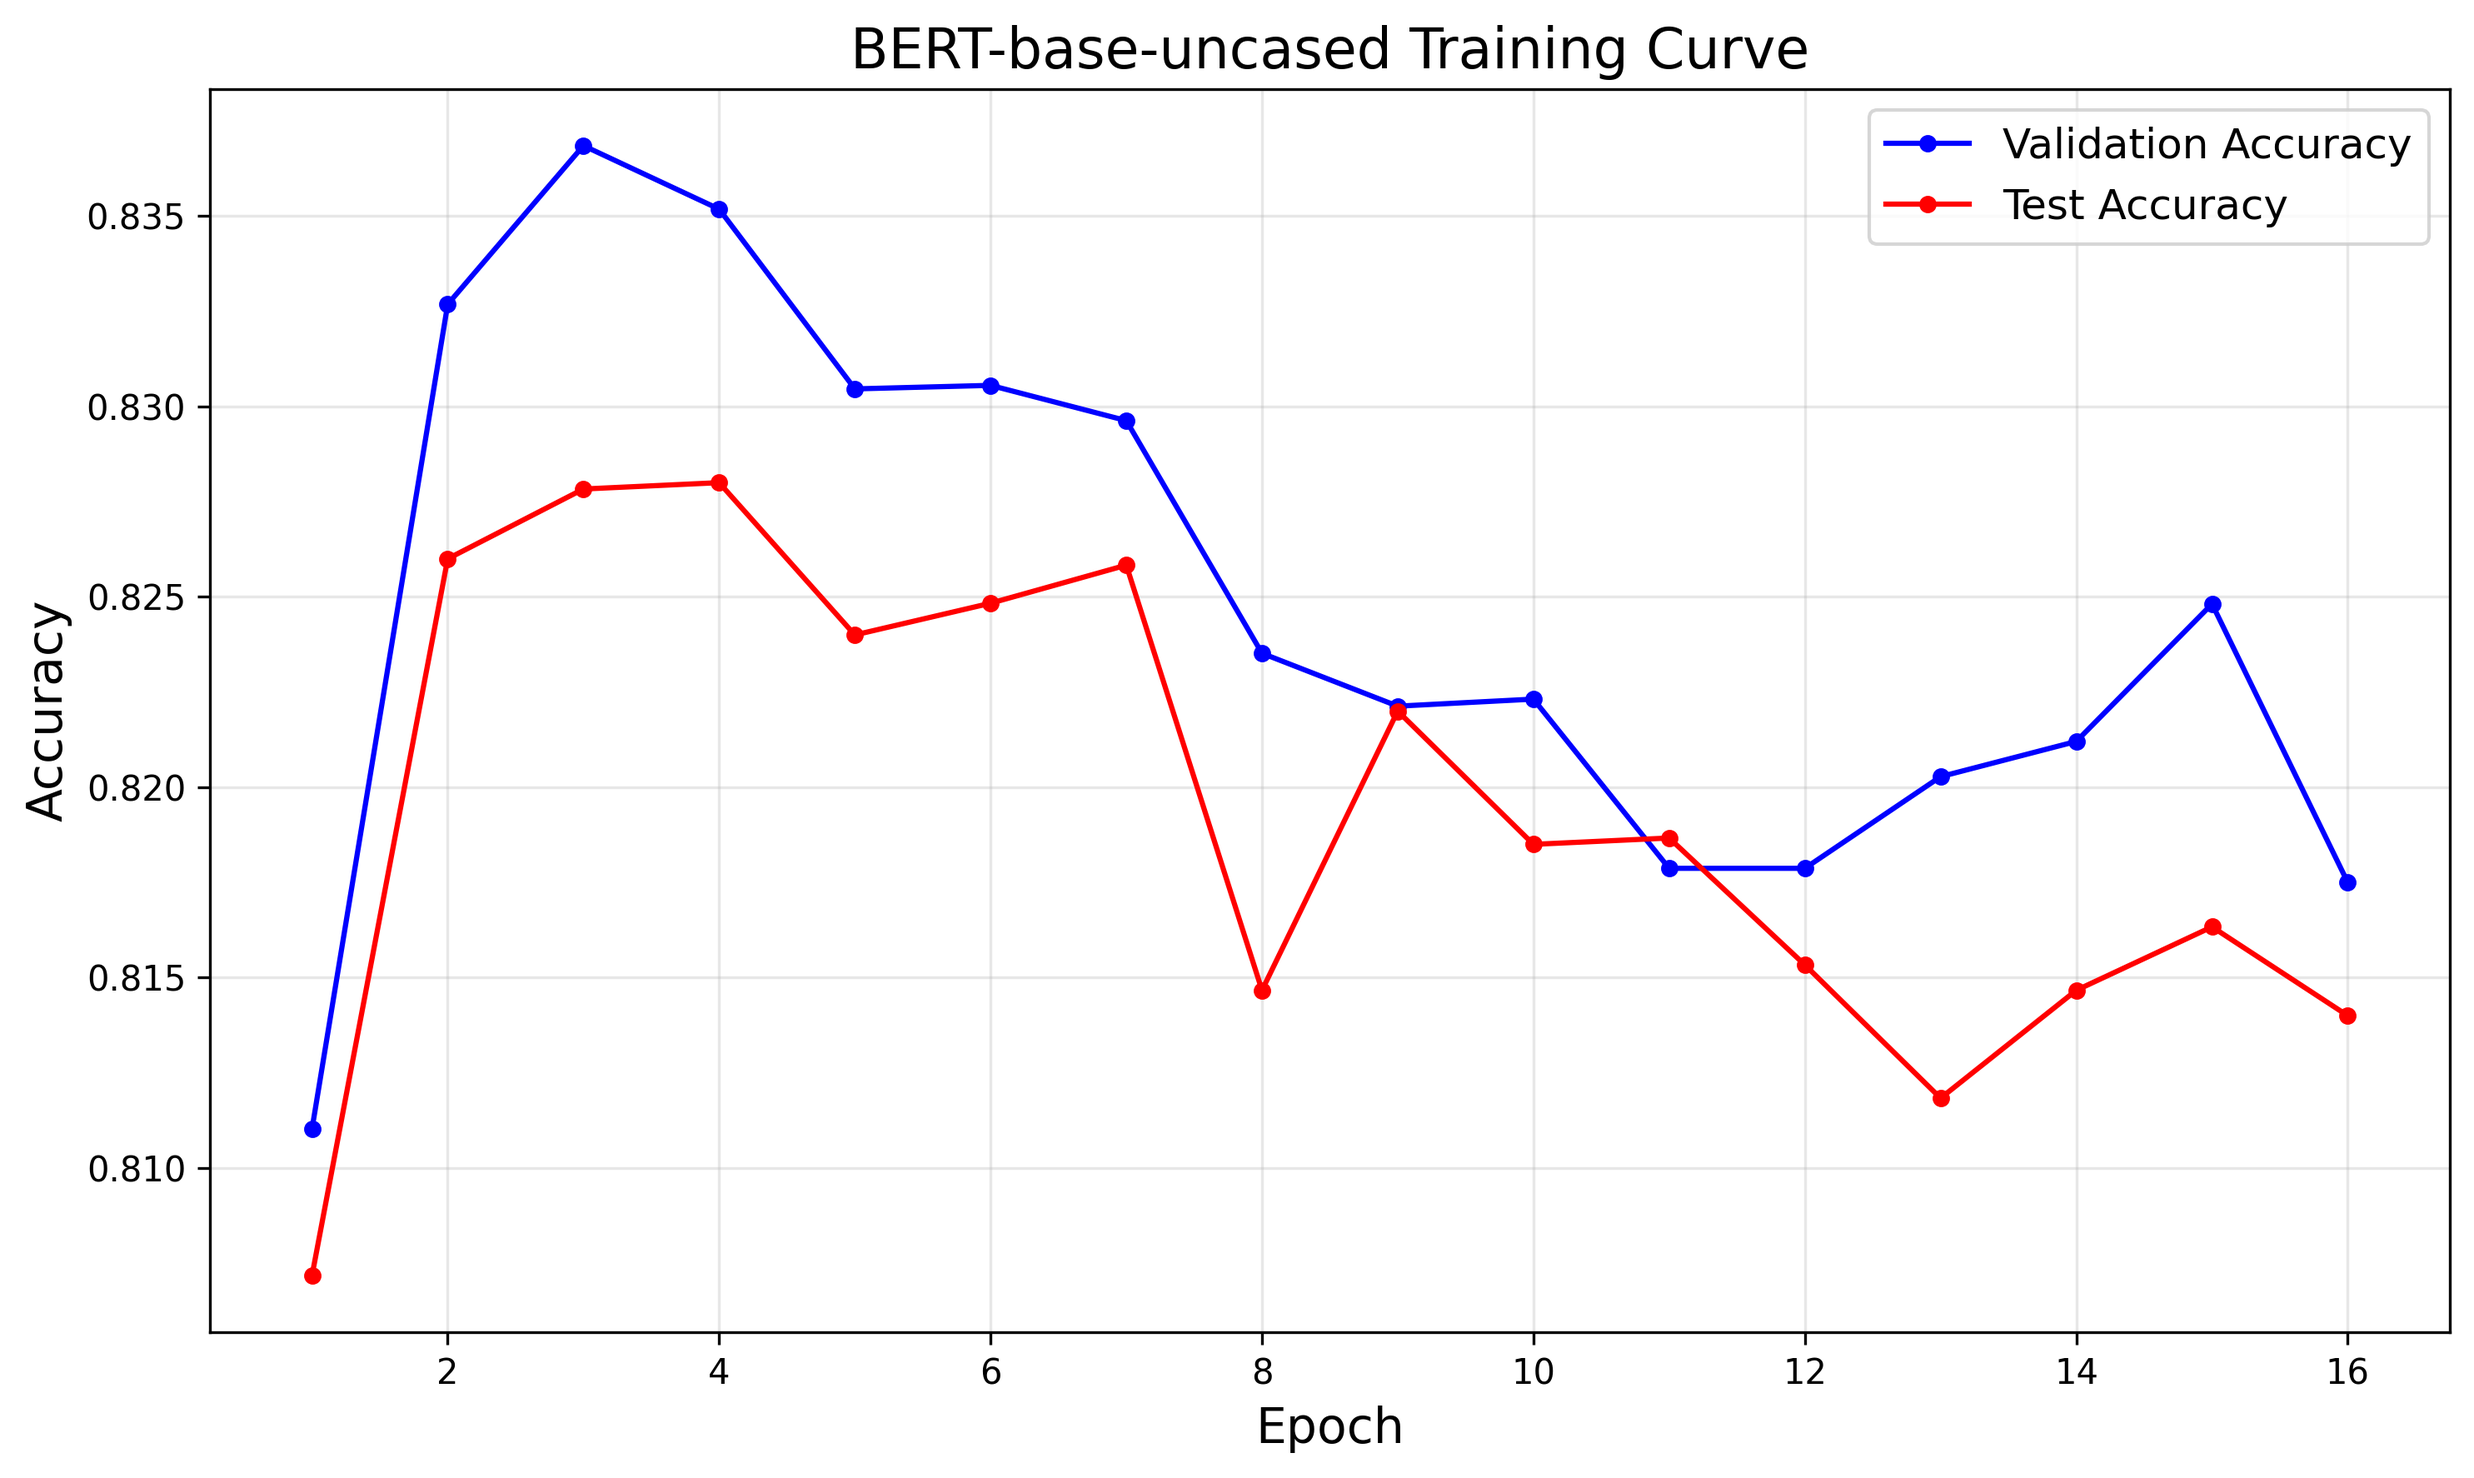
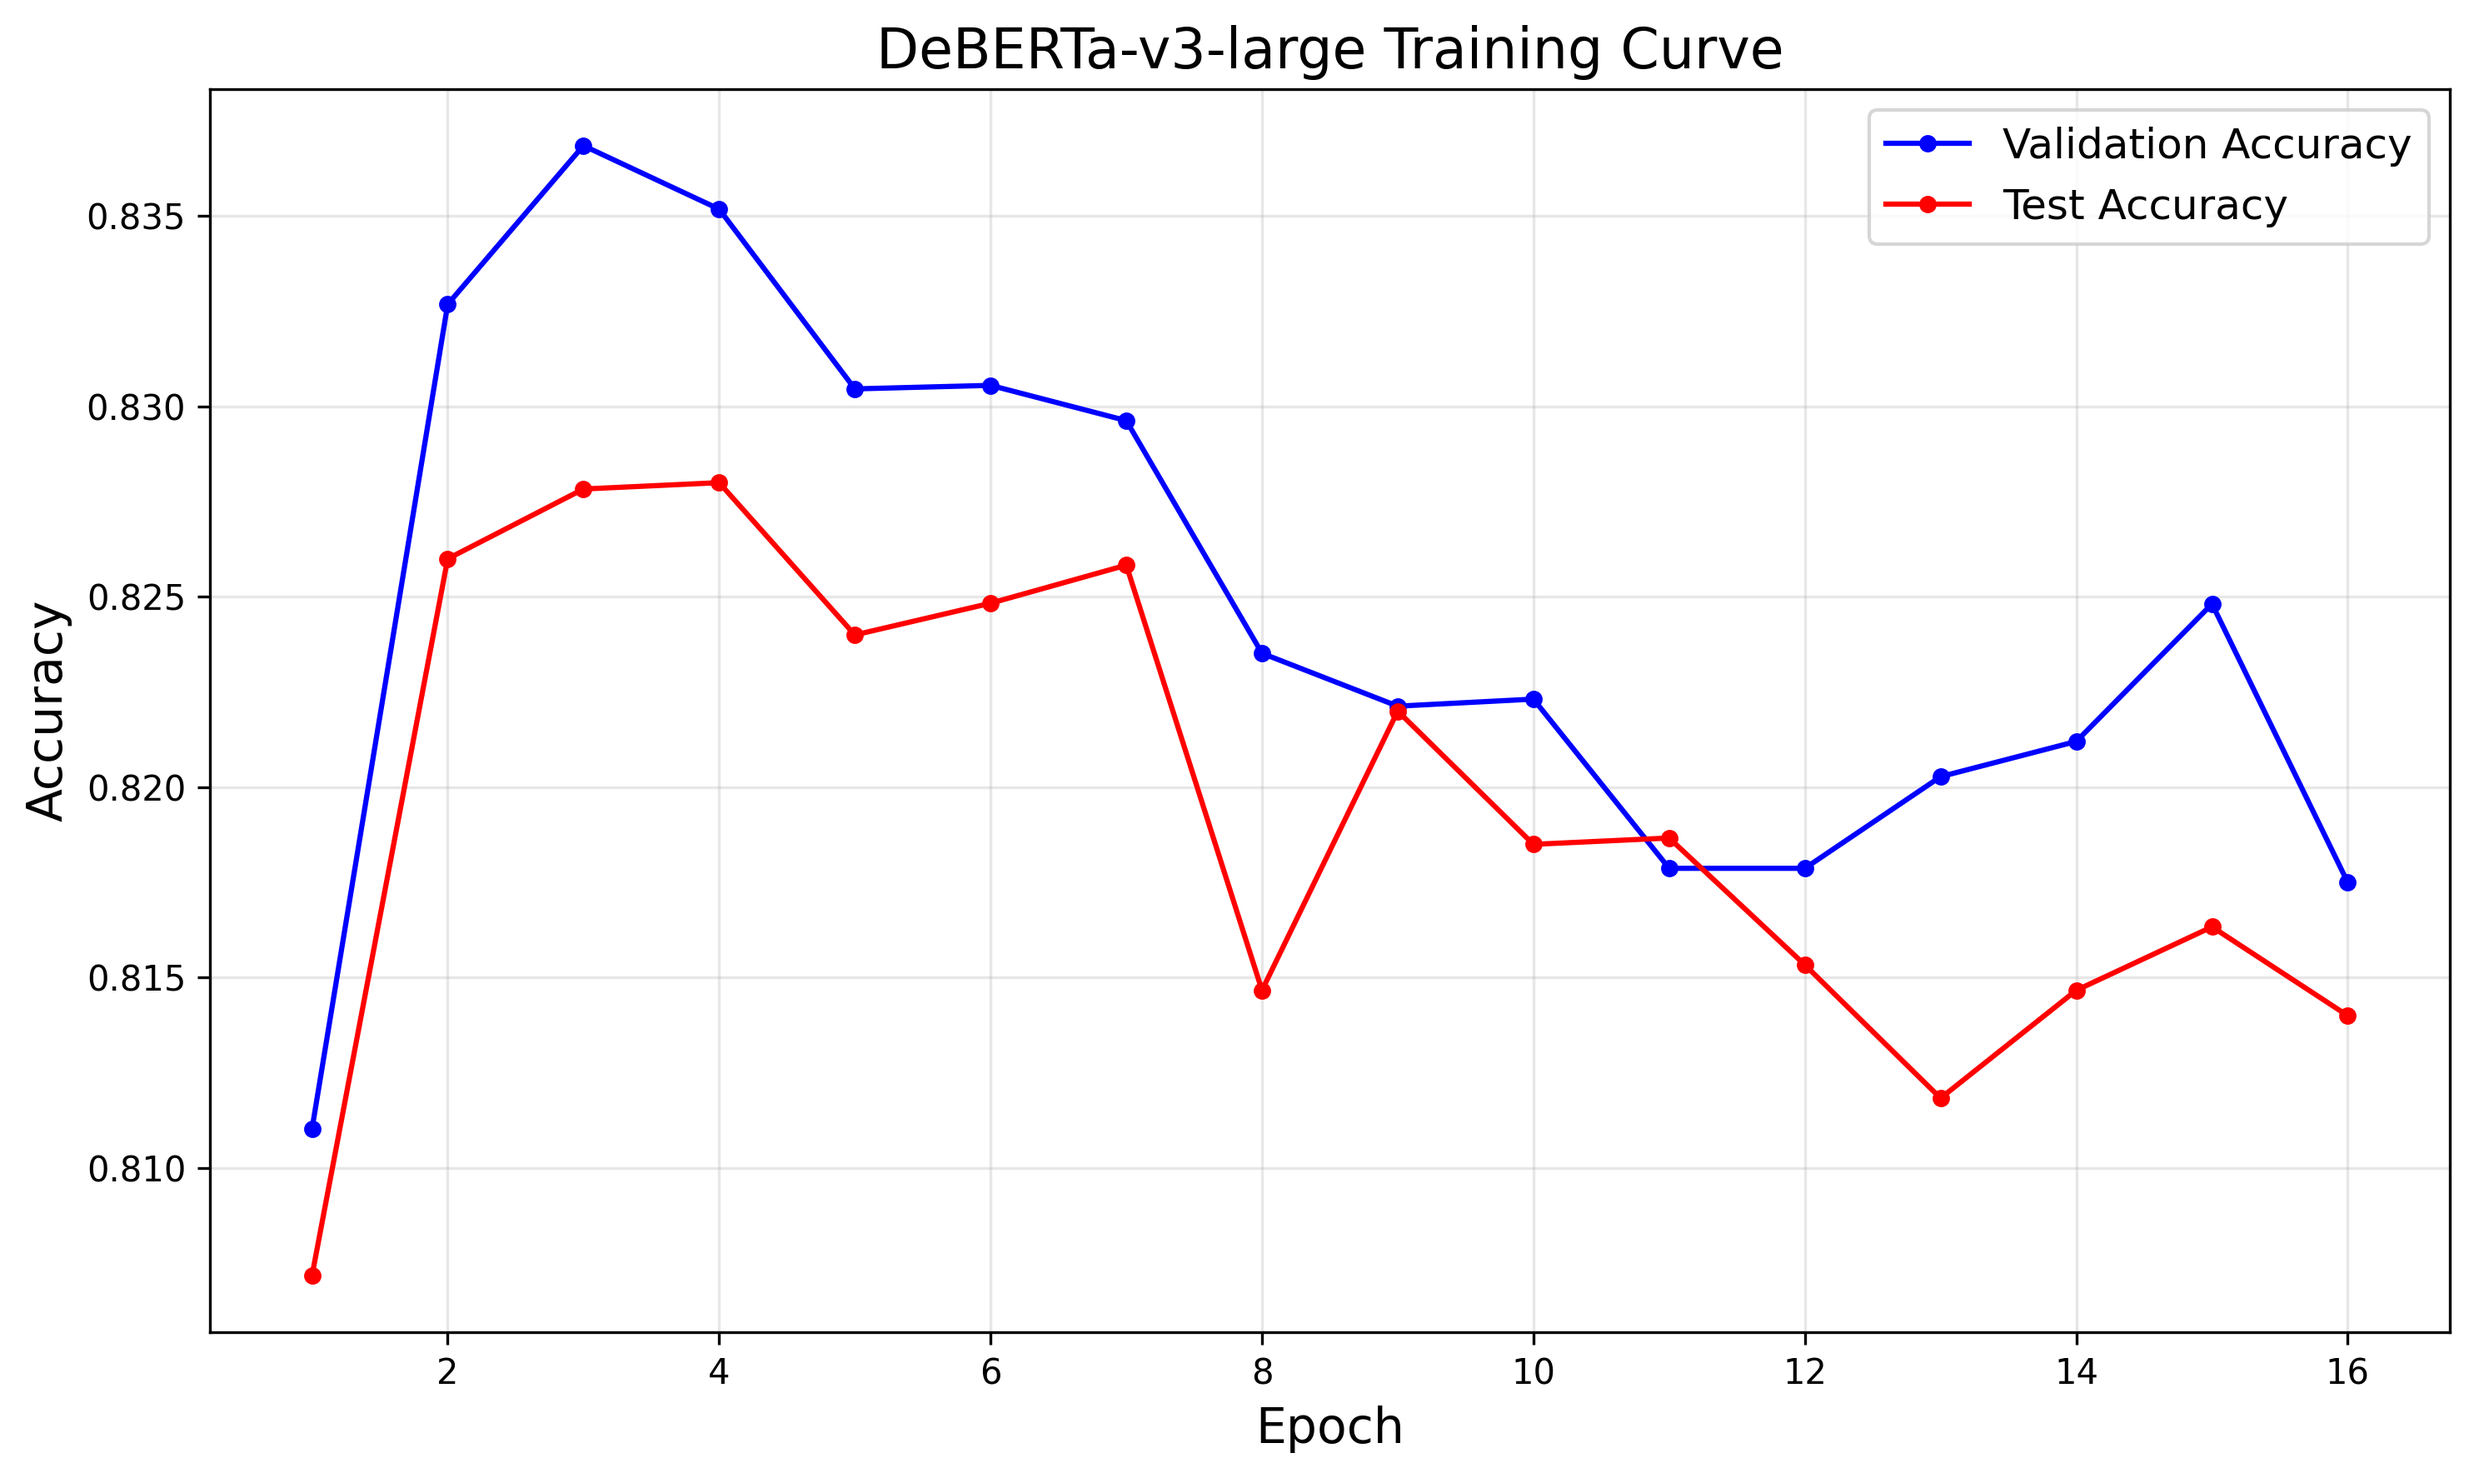
training of 11/26 and updata gitignore

Changed region(s): [[0.3407, 0.0, 0.7434, 0.062]]

diff --git a/hw3/nlp.py b/hw3/nlp.py
@@ -140,53 +140,6 @@ class SentimentClassifier(transformers.PreTrainedModel):
         instance.model = transformers.AutoModelForSequenceClassification.from_pretrained(pretrained_model_name_or_path, *model_args, **kwargs)
         return instance
 
-    """
-    def __init__(self, config: SentimentConfig):
-        super().__init__(config)
-        self.bert = transformers.AutoModel.from_pretrained(config.model_name)
-        self.dropout = torch.nn.Dropout(config.hidden_dropout_prob)
-        if config.head == "base":
-            self.classifier = torch.nn.Linear(config.hidden_size, config.num_labels)
-        elif config.head == "large":
-            self.classifier = BertLargeMLP(config)
-        
-        #initialize weights
-        self.post_init()
-
-    def forward(
-            self,
-            input_ids=None,
-            attention_mask=None,
-            token_type_ids=None,
-            labels=None,
-            **kwargs
-    ):
-        # allowed_kwargs = ["output_attentions", "output_hidden_states", "return_dict", "head_mask", "inputs_embeds"]
-        # bert_kwargs = {k: v for k, v in kwargs.items() if k in allowed_kwargs}
-        kwargs.pop("num_items_in_batch", None)  # sol.1 remove unexpected kwarg
-        outputs = self.bert(
-            input_ids=input_ids,
-            attention_mask=attention_mask,
-            token_type_ids=token_type_ids,
-            **{k: v for k, v in kwargs.items() if k in ["output_attentions", "output_hidden_states"]}
-        )
-        pooled_output = outputs[1]
-        pooled_output = self.dropout(pooled_output)
-        logits = self.classifier(pooled_output)
-
-        loss = None
-        if labels is not None:
-            loss_function = torch.nn.CrossEntropyLoss()
-            loss = loss_function(logits.view(-1, self.config.num_labels), labels.view(-1))
-
-        return transformers.modeling_outputs.SequenceClassifierOutput(
-            loss=loss,
-            logits=logits,
-            hidden_states=outputs.hidden_states,
-            attentions=outputs.attentions
-        )
-        """
-
 console = rich.console.Console()
 class RichProgressCallback(transformers.TrainerCallback):
     def __init__(self, current_epoch: int, total_epochs: int):
@@ -293,12 +246,28 @@ def train(
         epochs: int = 1,
         seed: int = 42,
 ):
-    tokenizer = transformers.AutoTokenizer.from_pretrained(model_name, use_fast=False)
+    tokenizer = transformers.AutoTokenizer.from_pretrained(model_name, use_fast=False, normalization=True)
+    tokenizer.model_max_length = 128
     test_datafile = pandas.read_csv(test_csv)
     true_labels = test_datafile["label"].values
     test_dataset = datasets.Dataset.from_pandas(test_datafile)
+
+    def safe_tokenize(x):
+        batch = tokenizer(
+            x["text"],
+            truncation=True,
+            padding=False,
+            add_special_tokens=True
+        )
+        batch["input_ids"] = [
+            [tid if 0 <= tid < len(tokenizer) else tokenizer.unk_token_id for tid in seq] for seq in batch["input_ids"]
+        ]
+        batch["labels"] = x["label"]
+        return batch
+
     tokenized_test = test_dataset.map(
-        lambda x: tokenizer(x["text"], truncation=True, padding=True, max_length=128),
+        # lambda x: tokenizer(x["text"], truncation=True, padding=True, max_length=max_length),
+        safe_tokenize,
         batched=True,
         remove_columns=["text", "id"]
     )
@@ -306,21 +275,12 @@ def train(
     console.print(f"[bold #de78ba]Using device: {DEVICE}\nUsing model: {model_name}[/bold #de78ba]")
     config = SentimentConfig(model_name=model_name, head=head)
     model = SentimentClassifier(config).to(DEVICE) # type: ignore
-    # model = transformers.AutoModelForSequenceClassification.from_pretrained(
-    #     model_name,
-    #     num_labels=3,
-    #     problem_type="single_label_classification",
-    #     torch_dtype=torch.float32,
-    #     device_map="auto"
-    # ).to(DEVICE) # type: ignore
 
     best_value = -1.0
     best_epoch = int(-1)
     checkpoint_dir = os.path.join(out_dir, "checkpoint")
     os.makedirs(checkpoint_dir, exist_ok=True)
     tokenizer.save_pretrained(checkpoint_dir)
-
-    # print("Initialize successful")
 
     class SentimentTrainer(transformers.Trainer):
         def __init__(self, *args, **kwargs):
@@ -331,12 +291,6 @@ def train(
             else: 
                 kwargs["callbacks"] = []
             super().__init__(*args, **kwargs)
-            
-        # def compute_loss(self, model, inputs, return_outputs=False, num_items_in_batch=None):
-        #     labels = inputs.pop("labels")
-        #     outputs = model(**inputs)
-        #     loss = torch.nn.CrossEntropyLoss()(outputs.logits, labels) if labels is not None else None
-        #     return (loss, outputs) if return_outputs else loss
         
         def log(self, logs, start_time: typing.Optional[float] = None): # type: ignore
             if self.state.epoch is not None:
@@ -368,8 +322,8 @@ def train(
         valid_labels = valid_set["label"].to_numpy()
         train_dataset = datasets.Dataset.from_pandas(train_set)
         valid_dataset = datasets.Dataset.from_pandas(valid_set)
-        tokenized_train = train_dataset.map(lambda x: {**tokenizer(x["text"], truncation=True, padding=True, max_length=128), "labels": x["label"]}, batched=True, remove_columns=train_dataset.column_names)
-        tokenized_valid = valid_dataset.map(lambda x: {**tokenizer(x["text"], truncation=True, padding=True, max_length=128), "labels": x["label"]}, batched=True, remove_columns=valid_dataset.column_names)
+        tokenized_train = train_dataset.map(safe_tokenize, batched=True, remove_columns=train_dataset.column_names)
+        tokenized_valid = valid_dataset.map(safe_tokenize, batched=True, remove_columns=valid_dataset.column_names)
 
         training_arguments = transformers.TrainingArguments(
             output_dir=out_dir,

diff --git a/hw3/graph.py b/hw3/graph.py
@@ -3,12 +3,13 @@ import matplotlib.pyplot as plt
 val_acc = [0.8071296296296296, 0.8168518518518518, 0.812962962962963, 0.8162037037037037, 0.8125, 0.8115740740740741, 0.812037037037037, 0.8124074074074074, 0.8106481481481481, 0.8112962962962963, 0.8087037037037037, 0.8085185185185185, 0.8123148148148148, 0.8072222222222222, 0.8060185185185185, 0.8058333333333333]
 test_acc = [0.8056666666666666, 0.8166666666666667, 0.8131666666666667, 0.8141666666666667, 0.813, 0.8116666666666666, 0.8105, 0.8143333333333334, 0.8115, 0.8093333333333333, 0.806, 0.8125, 0.8096666666666666, 0.8106666666666666, 0.8095, 0.8006666666666666]
 
+
 epochs = range(1, len(val_acc) + 1)
 plt.figure(figsize=(10, 6))
 plt.plot(epochs, val_acc, 'b-o', label='Validation Accuracy', markersize=4)
 plt.plot(epochs, test_acc, 'r-o', label='Test Accuracy', markersize=4)
 
-plt.title('BERT-base-uncased Training Curve', fontsize=16)
+plt.title('RoBERTa-large Training Curve', fontsize=16)
 plt.xlabel('Epoch', fontsize=14)
 plt.ylabel('Accuracy', fontsize=14)
 plt.grid(True, alpha=0.3)
